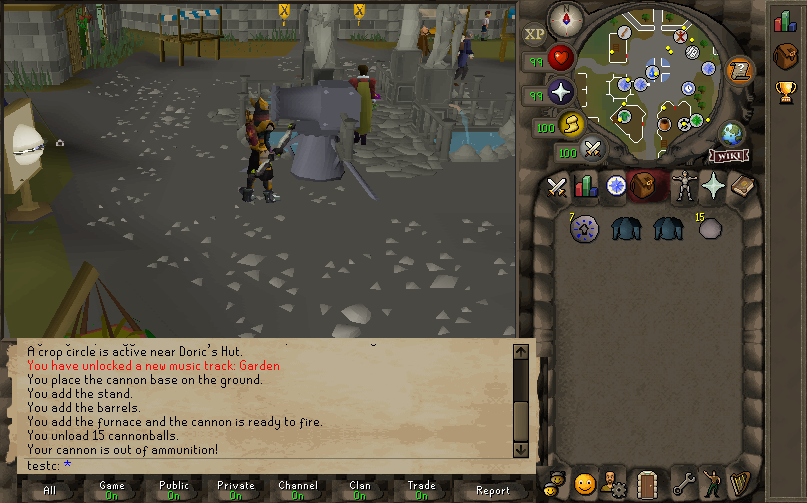
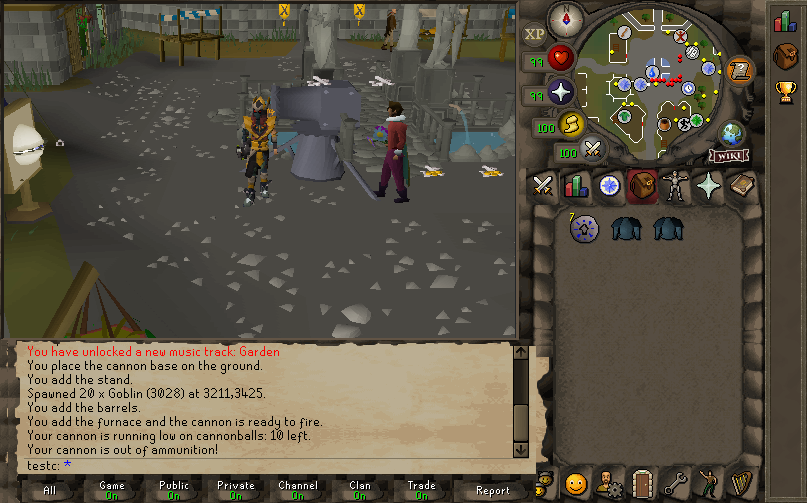
cannon: the two remaining shots, and the control that separates the two causes
`cannon-cs2` and `cannon-native-cs2` were left carrying the old drive after
their job rows changed, which is a stale pre-fix capture -- the exact thing the
shots README lists among the five that proved nothing. Both re-taken; both log
one PLUGIN_NOTIFY ("running low on cannonballs: 10 left.") and zero "run out of
cannonballs". The native-frame one is where that line is legible without the
provider's three-row chat pane, which is why the shot exists.

`cannon-thresholdonly-control.png` is the third leg of the measurement. The
claim was that TWO independent things kept this plugin silent -- the threshold
row never written, and a drive whose only ammo change is a one-tick 15 -> 0. A
reader is entitled to ask whether the second is real or just the first said
twice. It is real: this is the old `::cannon` + op-3 drive with `14176=10`
added and nothing else changed, and its chat is the BEFORE's to the line --
"You unload 15 cannonballs." then "Your cannon is out of ammunition!" -- with
`grep -c PLUGIN_NOTIFY` still 0. Writing the threshold is necessary and not
sufficient.

diff --git a/tools/porcelain_gate/shots/README.md b/tools/porcelain_gate/shots/README.md
@@ -449,6 +449,14 @@ BEFORE shot has a 15-stack of cannonballs in slot 4, because the unload put
 them back, and the AFTER has three items and no cannonballs, because they were
 fired.
 
+`cannon-thresholdonly-control.png` is the third leg, and it is what says the
+two causes above are INDEPENDENT rather than one cause said twice: the old
+`::cannon` + op-3 drive with `14176=10` added and nothing else. Its chat is the
+BEFORE's, to the line -- "You unload 15 cannonballs." then "Your cannon is out
+of ammunition!" -- and `grep -c PLUGIN_NOTIFY` on its log is 0. Writing the
+threshold is necessary and not sufficient; a drive that only ever drops to zero
+stays silent however the rows are set.
+
 **The general shape, which is not about cannons.** An edge-triggered plugin
 needs a drive that produces the EDGE, and "the state it reports is reached" is
 not the same claim. Emptiness was reached in every one of those 307 captures.
